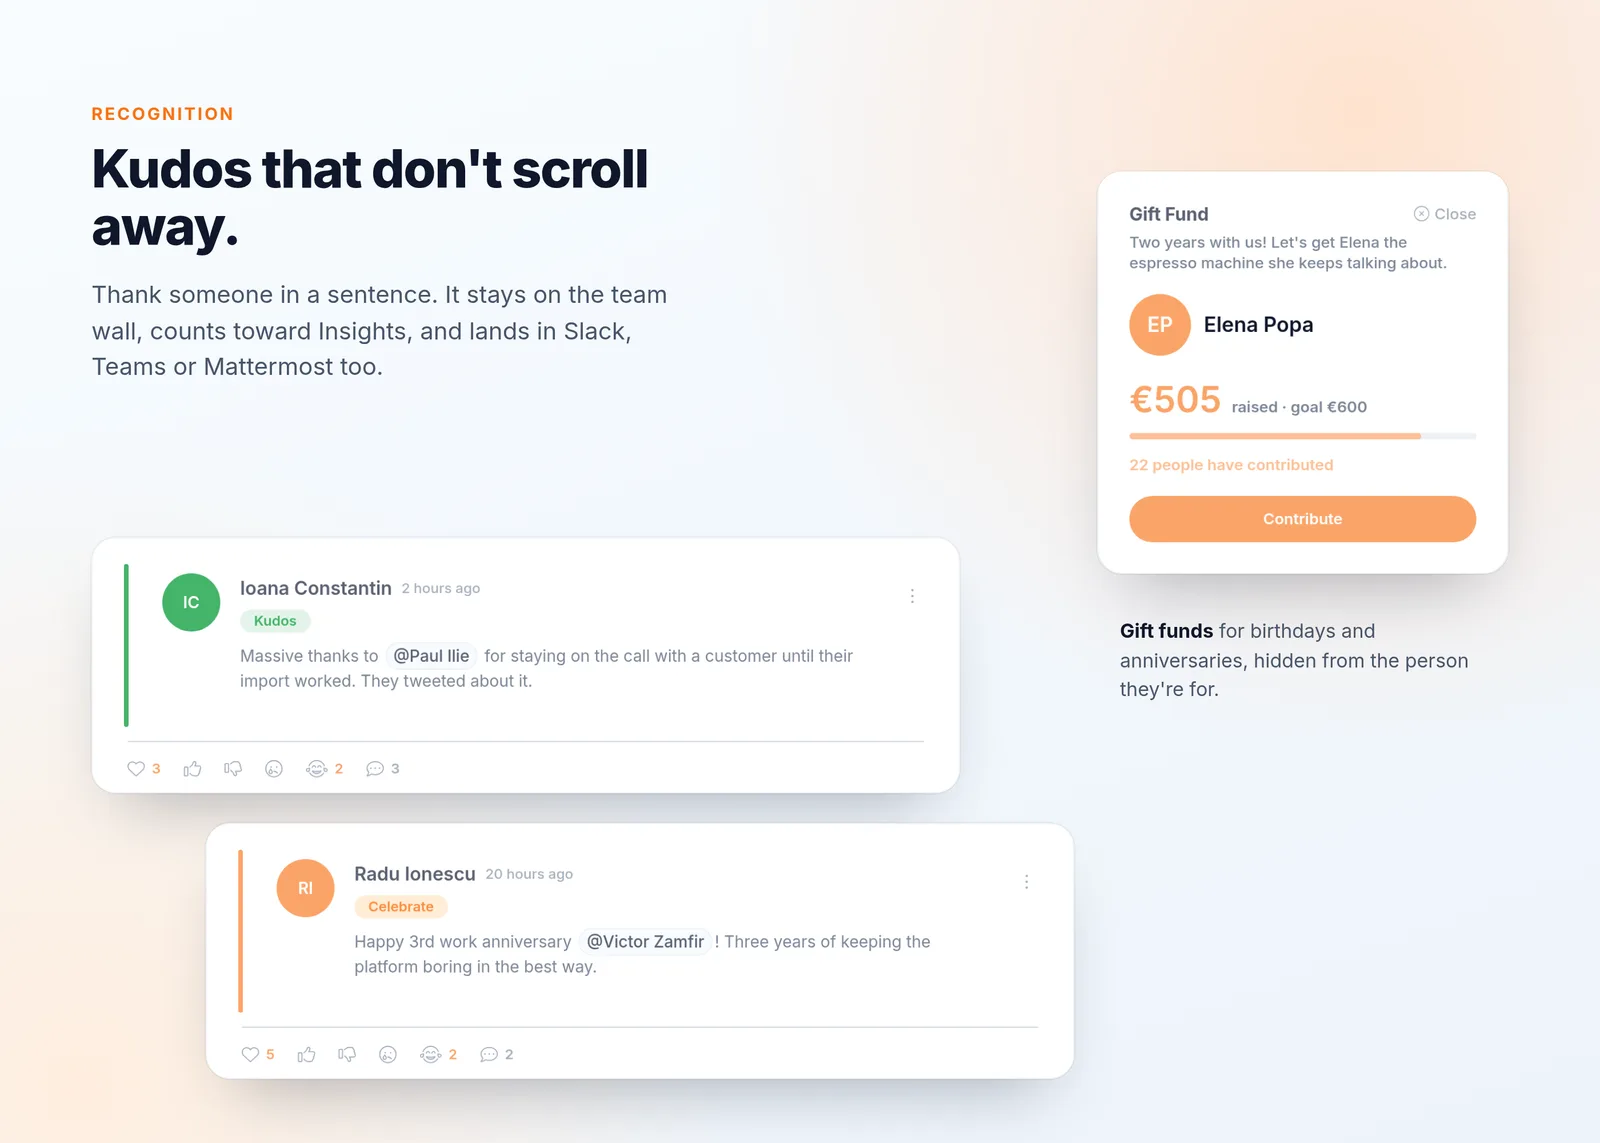
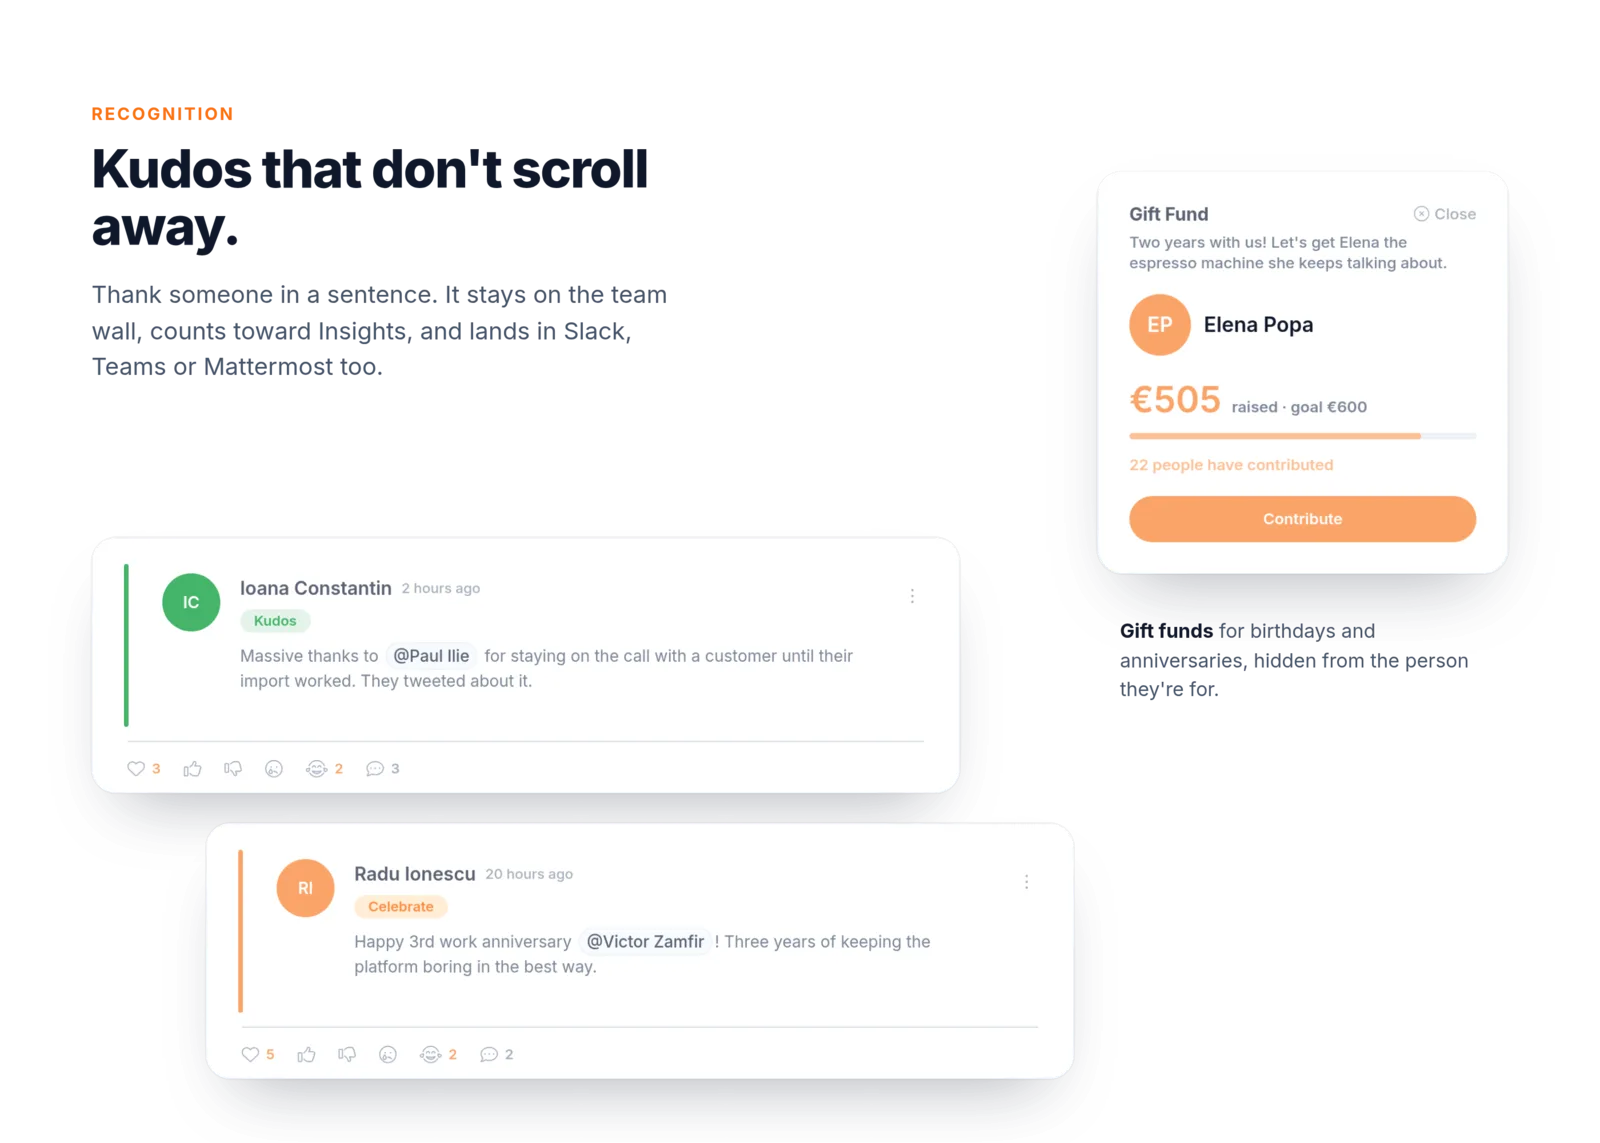
Feature shots: transparent backgrounds, versioned URLs
Claude-Session: https://claude.ai/code/session_01Mt9J5fan6rr29etzn8Pp7B

Changed region(s): [[0.625, 0.0, 1.0, 0.3675], [0.0, 0.7962, 0.1875, 1.0], [0.0625, 0.0919, 0.125, 0.1225]]

diff --git a/public/index.html b/public/index.html
@@ -921,10 +921,7 @@
         }
 
         .showcase figure {
-            margin: 0 0 1.5rem;
-            border-radius: 20px;
-            overflow: hidden;
-            background: #fff;
+            margin: 0 0 1rem;
         }
 
         /* ============ Responsive ============ */
@@ -1218,19 +1215,19 @@
         <section class="showcase" aria-labelledby="showcase-heading">
             <h2 class="showcase-heading" id="showcase-heading">Inside the app</h2>
             <figure>
-                <img src="/img/feature-recognition.webp" width="1600" height="1143" loading="lazy"
+                <img src="/img/feature-recognition.webp?v=2" width="1600" height="1143" loading="lazy"
                      alt="Recognition: kudos and work-anniversary posts on the team wall, and a gift fund collecting contributions for a teammate's anniversary">
             </figure>
             <figure>
-                <img src="/img/feature-pulse.webp" width="1600" height="1006" loading="lazy"
+                <img src="/img/feature-pulse.webp?v=2" width="1600" height="1006" loading="lazy"
                      alt="Team Pulse: one anonymous question a week, answered with a slider, and the team heartbeat chart trending over time">
             </figure>
             <figure>
-                <img src="/img/feature-time-off.webp" width="1600" height="1029" loading="lazy"
+                <img src="/img/feature-time-off.webp?v=2" width="1600" height="1029" loading="lazy"
                      alt="Time off: the team availability calendar showing who is on vacation, sick or personal leave, grouped by department">
             </figure>
             <figure>
-                <img src="/img/feature-insights.webp" width="1600" height="1143" loading="lazy"
+                <img src="/img/feature-insights.webp?v=2" width="1600" height="1143" loading="lazy"
                      alt="Insights: reaction breakdown across the team and a ranked list of top contributors by engagement">
             </figure>
         </section>
